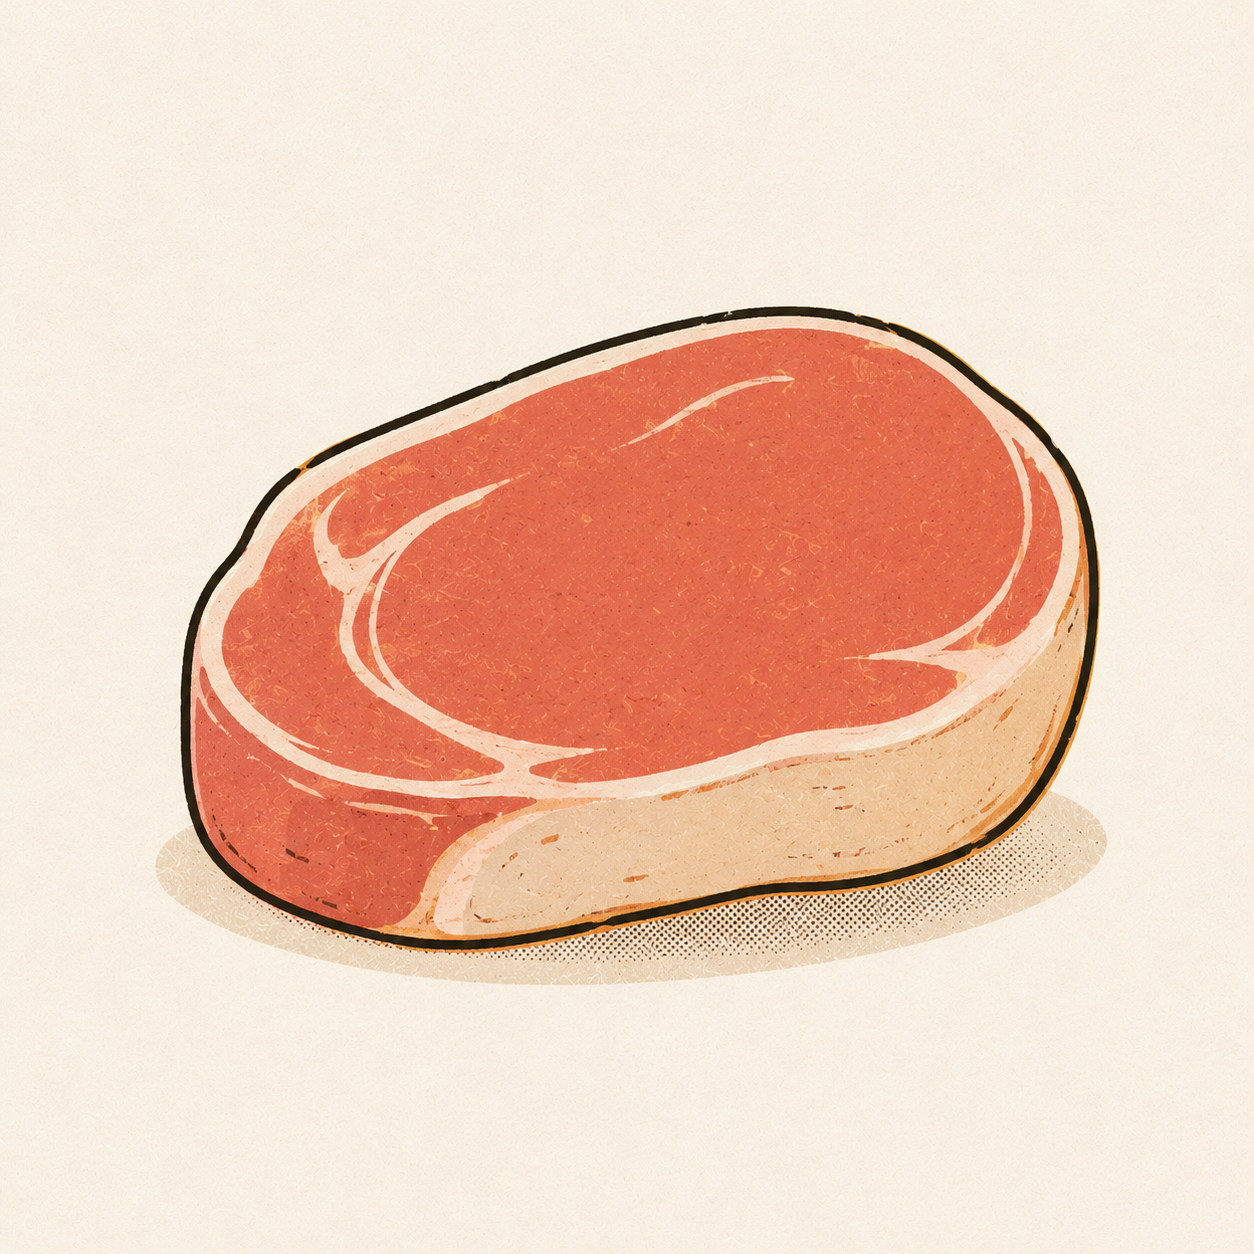
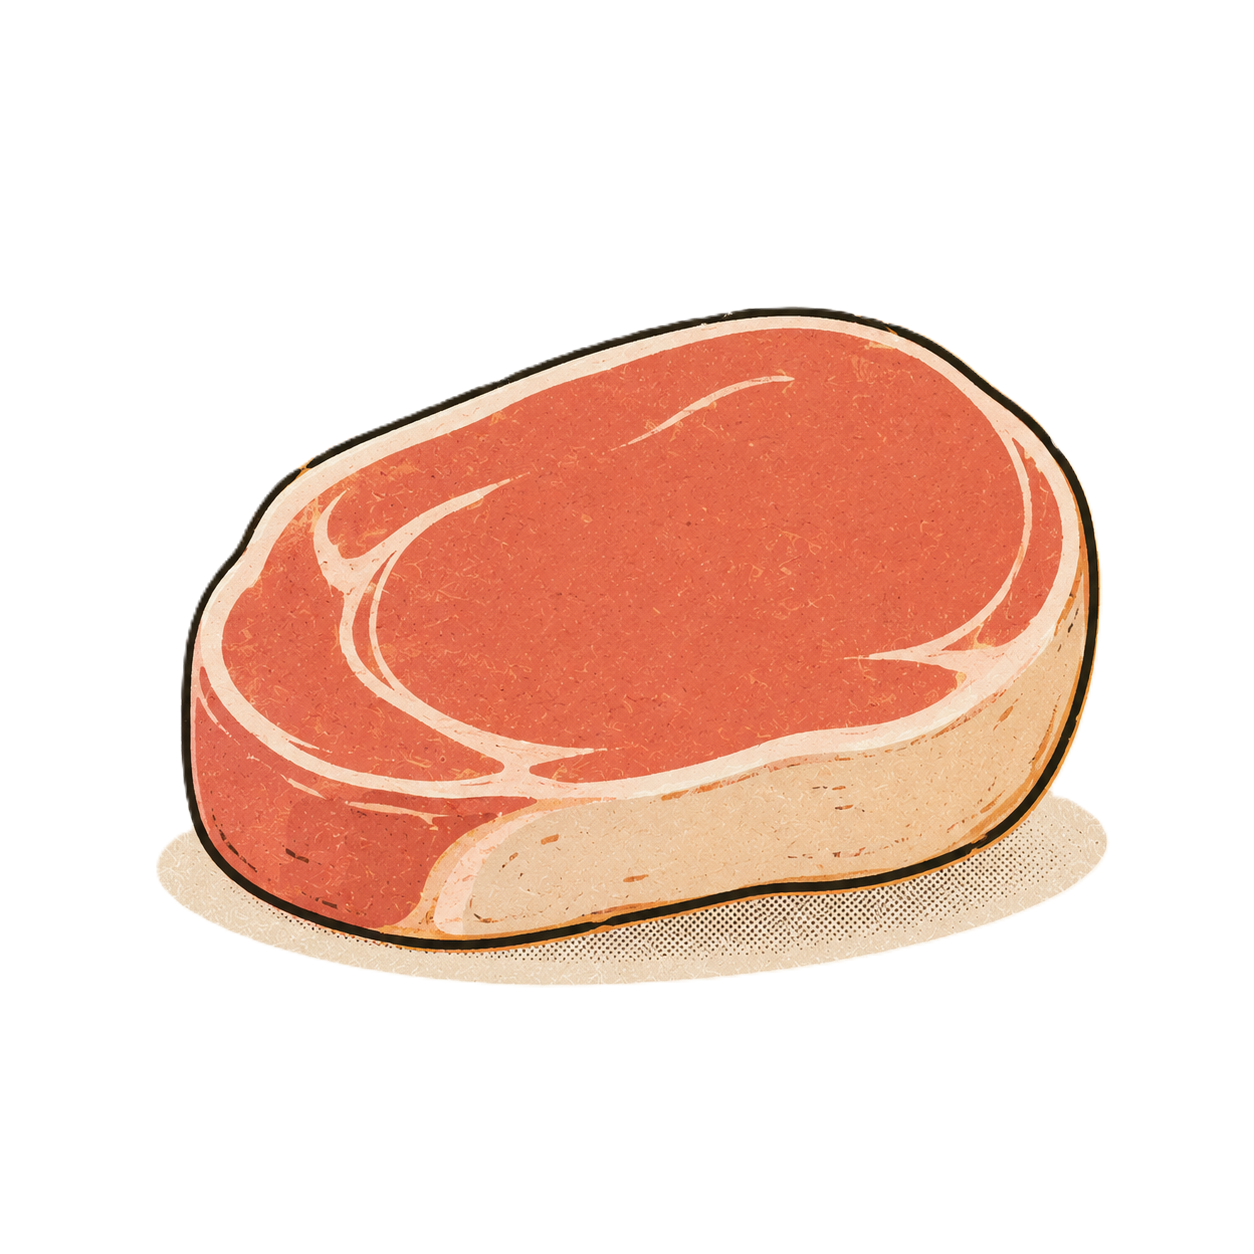
swap cocktail/food colors to match cassette, add type pill and filter to share page, normalize pill width across cards, refresh ingredient images

diff --git a/app/templates/share.html b/app/templates/share.html
@@ -51,14 +51,29 @@
           </form>
         </div>
 
+        <div class="share-filter">
+          <div class="search-bar d-flex flex-wrap align-items-center gap-3">
+            <div class="input-group" style="width: 300px;">
+              <span class="input-group-text"><i class="bi bi-search"></i></span>
+              <input type="text" id="shareSearch" class="form-control" placeholder="Filter by recipe name..." autocomplete="off" maxlength="100">
+            </div>
+            <div class="filter-pills" id="shareFilterPills">
+              <button type="button" class="filter-pill active" data-filter="all">All</button>
+              <button type="button" class="filter-pill" data-filter="cocktail">Cocktail</button>
+              <button type="button" class="filter-pill" data-filter="food">Food</button>
+            </div>
+          </div>
+        </div>
+
         <div class="share-history">
           <div class="cassette-insert-label">// TRACK A &middot; SHARED BY YOU</div>
           <h3>Shared by you</h3>
           <div class="share-table table-responsive">
-            <table class="table">
+            <table class="table" id="sharedByYouTable">
               <thead>
                 <tr>
                   <th>Recipe</th>
+                  <th>Type</th>
                   <th>Shared with</th>
                   <th>Date</th>
                   <th></th>
@@ -66,8 +81,15 @@
               </thead>
               <tbody>
                 {% for grant in existing_grants %}
-                  <tr>
+                  <tr data-name="{{ grant.recipe.name|lower }}" data-category="{{ grant.recipe.category }}">
                     <td class="text-break">{{ grant.recipe.name }}</td>
+                    <td>
+                      {% if grant.recipe.category == 'cocktail' %}
+                        <span class="badge-cocktail">Cocktail</span>
+                      {% else %}
+                        <span class="badge-food">{{ grant.recipe.category|title }}</span>
+                      {% endif %}
+                    </td>
                     <td class="text-break">{{ grant.shared_with.username }}</td>
                     <td class="font-mono" style="font-size:0.8rem;">
                       {{ grant.created_at.strftime('%Y-%m-%d %H:%M') }}
@@ -81,9 +103,12 @@
                   </tr>
                 {% else %}
                   <tr>
-                    <td colspan="4" class="text-muted">You have not shared any private recipes yet.</td>
+                    <td colspan="5" class="text-muted">You have not shared any private recipes yet.</td>
                   </tr>
                 {% endfor %}
+                <tr class="share-empty-filter" hidden>
+                  <td colspan="5" class="text-muted">No matching recipes.</td>
+                </tr>
               </tbody>
             </table>
           </div>
@@ -93,10 +118,11 @@
           <div class="cassette-insert-label">// TRACK B &middot; SHARED WITH YOU</div>
           <h3>Shared with you</h3>
           <div class="share-table table-responsive">
-            <table class="table">
+            <table class="table" id="sharedWithYouTable">
               <thead>
                 <tr>
                   <th>Recipe</th>
+                  <th>Type</th>
                   <th>From</th>
                   <th>Date</th>
                   <th></th>
@@ -104,11 +130,18 @@
               </thead>
               <tbody>
                 {% for grant in shared_with_you %}
-                  <tr>
+                  <tr data-name="{{ grant.recipe.name|lower }}" data-category="{{ grant.recipe.category }}">
                     <td class="text-break">
                       <a href="{{ url_for('main.recipe_detail', recipe_id=grant.recipe.id) }}">
                         {{ grant.recipe.name }}
                       </a>
+                    </td>
+                    <td>
+                      {% if grant.recipe.category == 'cocktail' %}
+                        <span class="badge-cocktail">Cocktail</span>
+                      {% else %}
+                        <span class="badge-food">{{ grant.recipe.category|title }}</span>
+                      {% endif %}
                     </td>
                     <td class="text-break">{{ grant.granted_by.username }}</td>
                     <td class="font-mono" style="font-size:0.8rem;">
@@ -122,9 +155,12 @@
                   </tr>
                 {% else %}
                   <tr>
-                    <td colspan="4" class="text-muted">Nothing has been shared with you yet.</td>
+                    <td colspan="5" class="text-muted">Nothing has been shared with you yet.</td>
                   </tr>
                 {% endfor %}
+                <tr class="share-empty-filter" hidden>
+                  <td colspan="5" class="text-muted">No matching recipes.</td>
+                </tr>
               </tbody>
             </table>
           </div>
@@ -133,4 +169,8 @@
       </div>
     </div>
   </main>
+{% endblock %}
+
+{% block extra_js %}
+  <script src="{{ url_for('static', filename='js/share.js') }}"></script>
 {% endblock %}

diff --git a/app/static/css/share.css b/app/static/css/share.css
@@ -110,6 +110,86 @@
   text-decoration: underline;
 }
 
+/* ---- Filter row above shared tables ---- */
+.share-filter {
+  margin-top: 2.5rem;
+  margin-bottom: 0.5rem;
+}
+
+.share-filter .search-bar {
+  background: none;
+  padding: 0;
+  margin: 0;
+  box-shadow: none;
+}
+
+.share-filter .input-group {
+  border-radius: var(--bs-border-radius, 6px);
+  transition: box-shadow 150ms ease;
+}
+
+.share-filter .input-group-text {
+  background-color: var(--mix-card-elevated);
+  border: 1px solid rgba(155, 142, 130, 0.25);
+  border-right: none;
+  color: var(--mix-text-muted);
+  transition: border-color 150ms ease, color 150ms ease;
+}
+
+.share-filter .input-group .form-control {
+  border-left: none;
+  transition: border-color 150ms ease;
+}
+
+.share-filter .input-group:hover .input-group-text,
+.share-filter .input-group:focus-within .input-group-text {
+  border-color: var(--mix-accent);
+  color: var(--mix-accent);
+}
+
+.share-filter .input-group:hover .form-control,
+.share-filter .input-group:focus-within .form-control {
+  border-color: var(--mix-accent);
+  box-shadow: none;
+}
+
+.share-filter .input-group:hover,
+.share-filter .input-group:focus-within {
+  box-shadow: 0 0 0 3px rgba(212, 148, 76, 0.2);
+}
+
+.share-filter .input-group .form-control:focus {
+  box-shadow: none;
+}
+
+.share-filter .filter-pills {
+  display: flex;
+  gap: 8px;
+  flex-wrap: wrap;
+}
+
+.share-filter .filter-pill {
+  background: transparent;
+  border: 1px solid var(--mix-text-muted);
+  color: var(--mix-text-muted);
+  padding: 5px 16px;
+  border-radius: 20px;
+  font-size: 0.8rem;
+  cursor: pointer;
+  transition: all 200ms ease;
+}
+
+.share-filter .filter-pill:hover {
+  border-color: var(--mix-accent);
+  color: var(--mix-accent);
+}
+
+.share-filter .filter-pill.active {
+  background-color: var(--mix-accent);
+  border-color: var(--mix-accent);
+  color: var(--mix-bg);
+}
+
 /* ---- Responsive ---- */
 @media (max-width: 575.98px) {
   .share-form .form-row {

diff --git a/app/static/js/share.js b/app/static/js/share.js
@@ -1,0 +1,39 @@
+// Filter the share tables by recipe name and category.
+document.addEventListener('DOMContentLoaded', function () {
+  var search = document.getElementById('shareSearch');
+  var pillsBox = document.getElementById('shareFilterPills');
+  if (!search || !pillsBox) return;
+
+  var pills = pillsBox.querySelectorAll('.filter-pill');
+  var tables = document.querySelectorAll('#sharedByYouTable, #sharedWithYouTable');
+  var activeCategory = 'all';
+
+  function applyFilter() {
+    var q = search.value.trim().toLowerCase();
+    tables.forEach(function (table) {
+      var rows = table.querySelectorAll('tbody tr[data-name]');
+      var visibleCount = 0;
+      rows.forEach(function (row) {
+        var name = row.getAttribute('data-name') || '';
+        var cat = row.getAttribute('data-category') || '';
+        var matchName = !q || name.indexOf(q) !== -1;
+        var matchCat = activeCategory === 'all' || cat === activeCategory;
+        var show = matchName && matchCat;
+        row.hidden = !show;
+        if (show) visibleCount += 1;
+      });
+      var emptyRow = table.querySelector('tr.share-empty-filter');
+      if (emptyRow) emptyRow.hidden = !(rows.length > 0 && visibleCount === 0);
+    });
+  }
+
+  search.addEventListener('input', applyFilter);
+  pills.forEach(function (pill) {
+    pill.addEventListener('click', function () {
+      pills.forEach(function (p) { p.classList.remove('active'); });
+      pill.classList.add('active');
+      activeCategory = pill.getAttribute('data-filter');
+      applyFilter();
+    });
+  });
+});

diff --git a/app/static/css/style.css b/app/static/css/style.css
@@ -317,17 +317,9 @@ h1, h2, h3, h4, h5, h6 {
 }
 
 /* ---- Category Badges ---- */
+/* cocktail = sage, food = terracotta (matches cassette art) */
+/* align-self keeps the pill intrinsic-width inside flex column parents */
 .badge-cocktail {
-  background-color: var(--mix-secondary);
-  color: var(--mix-text);
-  font-size: 0.7rem;
-  font-weight: 500;
-  padding: 4px 10px;
-  border-radius: 20px;
-  display: inline-block;
-}
-
-.badge-food {
   background-color: var(--mix-tertiary);
   color: var(--mix-text);
   font-size: 0.7rem;
@@ -335,6 +327,18 @@ h1, h2, h3, h4, h5, h6 {
   padding: 4px 10px;
   border-radius: 20px;
   display: inline-block;
+  align-self: flex-start;
+}
+
+.badge-food {
+  background-color: var(--mix-secondary);
+  color: var(--mix-text);
+  font-size: 0.7rem;
+  font-weight: 500;
+  padding: 4px 10px;
+  border-radius: 20px;
+  display: inline-block;
+  align-self: flex-start;
 }
 
 .badge-alcoholic {

diff --git a/app/templates/recipes.html b/app/templates/recipes.html
@@ -157,11 +157,13 @@
                   {% endif %}
 
                   <div class="card-body">
-                    {% if recipe.category == 'cocktail' %}
-                      <span class="badge-cocktail">Cocktail</span>
-                    {% else %}
-                      <span class="badge-food">{{ recipe.category|title }}</span>
-                    {% endif %}
+                    <div class="d-flex flex-wrap align-items-center gap-2">
+                      {% if recipe.category == 'cocktail' %}
+                        <span class="badge-cocktail">Cocktail</span>
+                      {% else %}
+                        <span class="badge-food">{{ recipe.category|title }}</span>
+                      {% endif %}
+                    </div>
 
                     <h3 class="card-title mt-2">{{ recipe.name }}</h3>
 

diff --git a/app/static/css/index.css b/app/static/css/index.css
@@ -94,11 +94,11 @@
   letter-spacing: 0.5px;
 }
 
-.category-cocktail i { color: var(--mix-secondary); }
-.category-food i     { color: var(--mix-tertiary); }
+.category-cocktail i { color: var(--mix-tertiary); }
+.category-food i     { color: var(--mix-secondary); }
 
-.category-cocktail h3 { color: var(--mix-secondary); }
-.category-food h3     { color: var(--mix-tertiary); }
+.category-cocktail h3 { color: var(--mix-tertiary); }
+.category-food h3     { color: var(--mix-secondary); }
 
 .category-card-icon {
   display: block;
